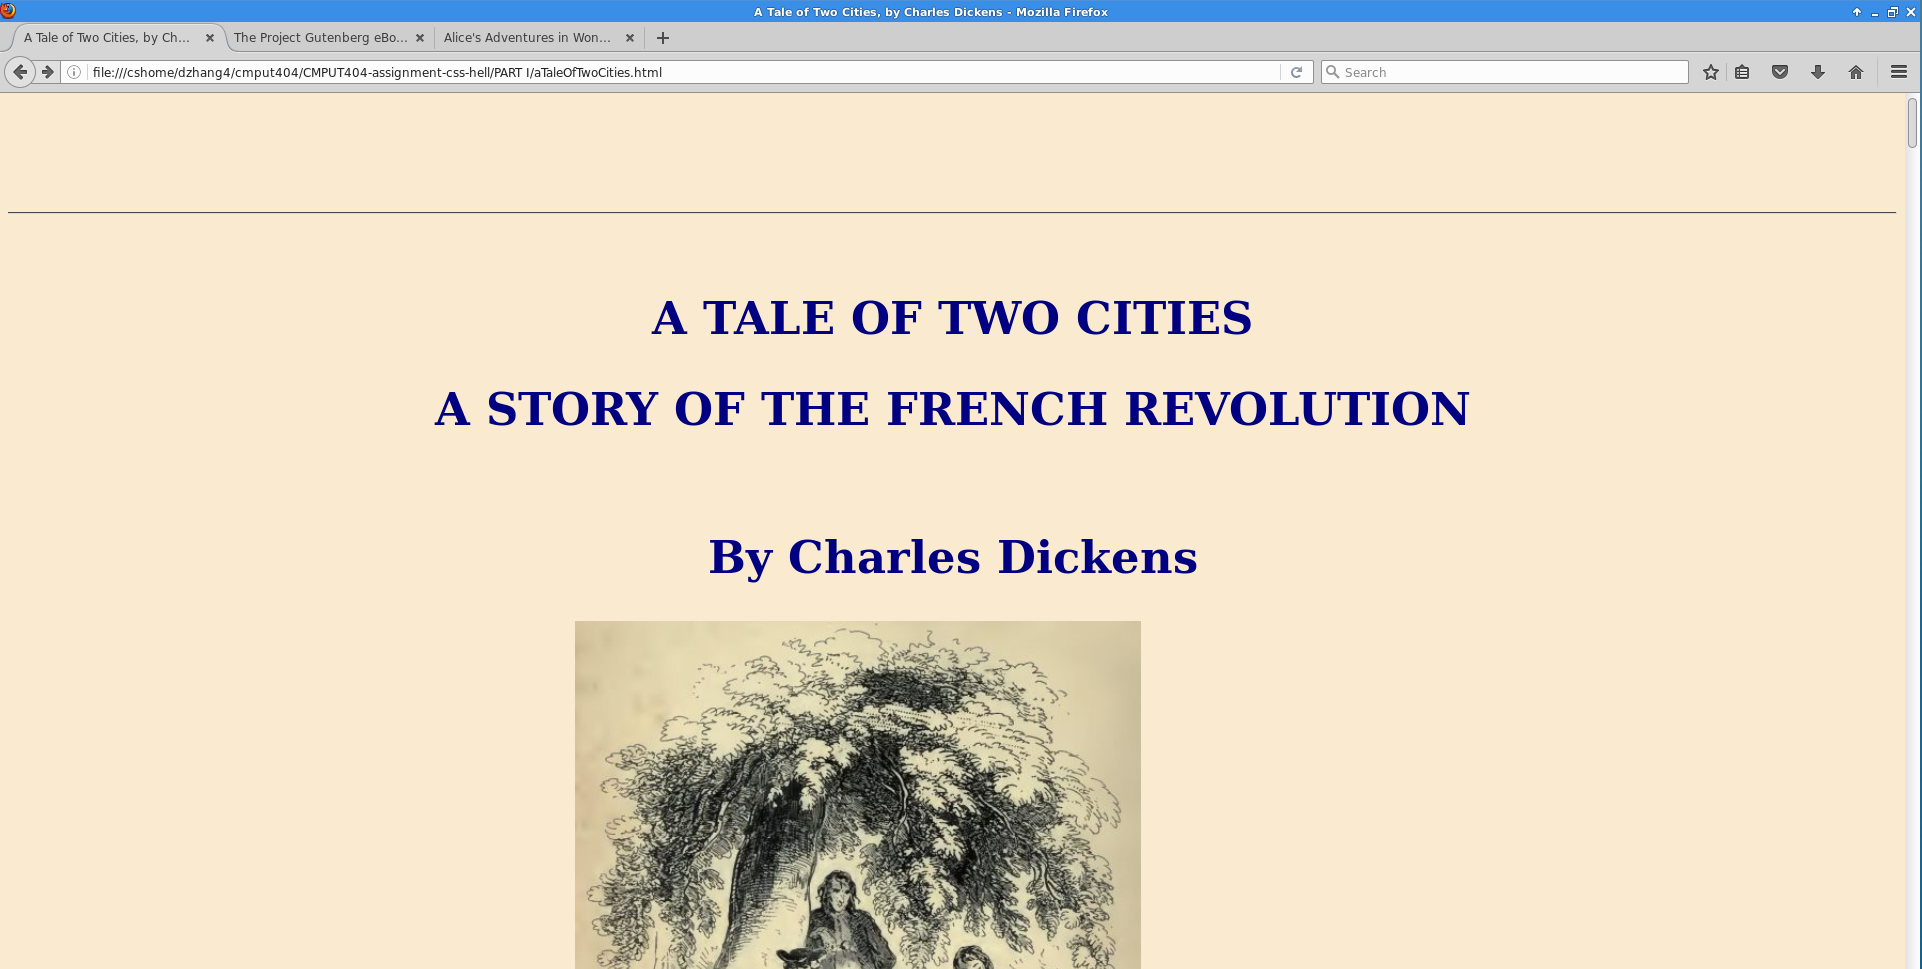
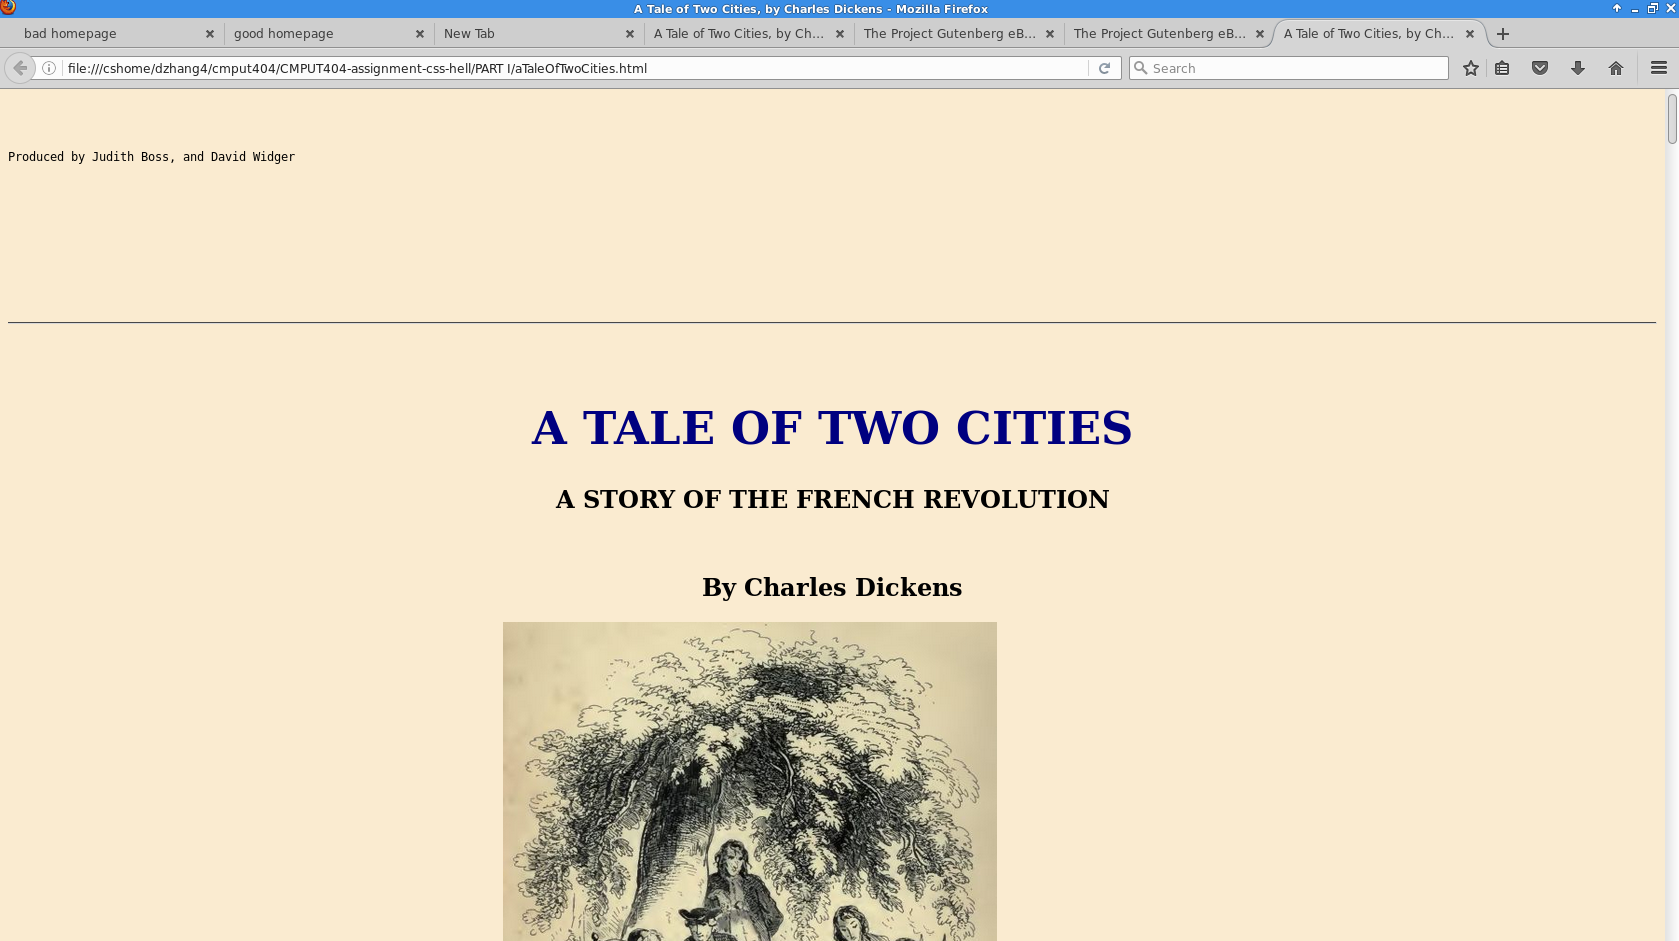
comm

diff --git a/PART II/bad.html b/PART II/bad.html
@@ -1,0 +1,57 @@
+<!DOCTYPE html>
+<html>
+<head>
+  <meta charset="UTF-8">
+  <link rel="stylesheet" type="text/css" href="bad.css"></link>
+  <title>bad homepage</title>
+</head>
+<body>
+
+  <div id="header">
+    <h1>
+      Di Zhang
+    </h1>
+  </div>
+  <ul class="menu">
+    <li class="tab"><a href="#bio">Who Am I?</a></li>
+    <li class="tab"><a href="#exp">Experience</a></li>
+    <li class="tab"><a href="#whyMe">Why Me?</a></li>
+  </ul>
+
+  <div id="sidebar">
+    <ul>Computer Science Major</ul>
+    <ul>Motivated</ul>
+    <ul>Hard Worker</ul>
+  </div>
+  <img src="IMG_0477.JPG" alt="myPhoto" height=20% width=20%>
+  
+  <div id="aboutMe">
+    <h2 id="bio">About Me</h2>
+    <p>Hello! I am a student at the University of Alberta studying Computer Science. </p>
+  </div>
+
+  <div id="exp">
+    <h2>Experience</h2>
+    <h5>Software Developer Intern</h5>
+    <h6>July - August 2016</h6>
+    <p>My position at VistaVu Solutions was to integrate SAP FieldVu Mobile with Intuit Quickbooks.</p>
+  </div>
+
+  <div id="whyMe">
+    <h2>Technical Skills</h2>
+    <ul>
+      <li>Python</li>
+      <li>Java</li>
+      <li>C/C++</li>
+      <li>SQL and Databases</li>
+      <li>HTML/CSS/JavaScript</li>
+    </ul>
+  </div>
+
+  <div id="contact">
+    <p>Please contact: dzhang4@ualberta.ca</p>
+  </div>
+
+  
+</body>
+</html>

diff --git a/PART II/good.html b/PART II/good.html
@@ -1,0 +1,56 @@
+<!DOCTYPE html>
+<html>
+<head>
+  <meta charset="UTF-8">
+  <link rel="stylesheet" type="text/css" href="good.css"></link>
+  <title>good homepage</title>
+</head>
+<body>
+
+  <div id="header">
+    <h1>
+      Di Zhang
+    </h1>
+  </div>
+  <ul class="menu">
+    <li class="tab"><a href="#bio">Who Am I?</a></li>
+    <li class="tab"><a href="#exp">Experience</a></li>
+    <li class="tab"><a href="#whyMe">Why Me?</a></li>
+  </ul>
+
+  <div id="sidebar">
+    <ul>Computer Science Major</ul>
+    <ul>Motivated</ul>
+    <ul>Hard Worker</ul>
+  </div>
+  <img src="IMG_0477.JPG" alt="myPhoto" height=20% width=20%>
+  
+  <div id="aboutMe">
+    <h2 id="bio">About Me</h2>
+    <p>Hello! I am a student at the University of Alberta studying Computer Science. </p>
+  </div>
+
+  <div id="exp">
+    <h2>Experience</h2>
+    <h5>Software Developer Intern</h5>
+    <h6>July - August 2016</h6>
+    <p>My position at VistaVu Solutions was to integrate SAP FieldVu Mobile with Intuit Quickbooks.</p>
+  </div>
+
+  <div id="whyMe">
+    <h2>Technical Skills</h2>
+    <ul>
+      <li>Python</li>
+      <li>Java</li>
+      <li>C/C++</li>
+      <li>SQL and Databases</li>
+      <li>HTML/CSS/JavaScript</li>
+    </ul>
+  </div>
+
+  <div id="contact">
+    <p>Please contact: dzhang4@ualberta.ca</p>
+  </div>
+
+</body>
+</html>

diff --git a/PART II/good.css b/PART II/good.css
@@ -1,0 +1,69 @@
+body{
+  background-color:#ffffe0;
+}
+
+#header{
+  font-size:200%;
+  text-align:center;
+  color:white;
+  background:url(goodHeader.jpg);
+  padding-top:32px;
+  padding-bottom:32px;
+}
+
+h5{
+  margin:0;
+  padding:0;
+}
+
+h6{
+  margin:0;
+  padding:0;
+}
+
+img {
+  float:left;
+  padding-left:1em;
+  padding-top:1em;
+}
+
+ul.menu{
+  text-align:center;
+  padding-right:5em;
+}
+
+li.tab{
+  display:inline;
+  padding-left:5em;
+}
+
+#aboutMe,#exp,#whyMe {
+  position:relative;
+  padding:15px;
+  margin-top:2em;
+  margin-left:25em;
+  margin-right:30em;
+  font-family: "Times New Roman", Times, serif;
+  border-color:#5F9EA0;
+  border-style:solid;
+  border-radius:20px;
+}
+
+#sidebar {
+  float:right;
+  padding-right:10em;
+  padding-top:1em;
+  border-style:solid;
+  border-radius:5px;;
+  border-color:#B0C4DE;
+  background-color:#B0C4DE;
+}
+
+#contact{
+  text-align:center;
+  background:url(goodFooter.jpg);
+  padding-top:3em;
+  padding-bottom:3em;
+}
+
+

diff --git a/PART II/bad.css b/PART II/bad.css
@@ -1,0 +1,65 @@
+body{
+  background:aquamarine;
+}
+
+#header{
+  font-size:200%;
+  text-align:center;
+  color:blue;
+  background:url(bad-header.png);
+  padding-top:32px;
+  padding-bottom:32px;
+}
+
+h5{
+  margin:0;
+  padding:0;
+}
+
+h6{
+  margin:0;
+  padding:0;
+}
+
+img {
+  float:left;
+  padding-left:1em;
+  padding-top:1em;
+}
+
+ul.menu{
+  text-align:center;
+  padding-right:5em;
+}
+
+li.tab{
+  display:inline;
+  padding-left:5em;
+}
+
+#aboutMe,#exp,#whyMe {
+  position:relative;
+  padding:15px;
+  margin-top:2em;
+  margin-left:25em;
+  margin-right:30em;
+  background-color:#7CFC00;
+  font-family:"Comic Sans MS", cursive, sans-serif;
+  color:red;
+}
+
+#sidebar {
+  float:right;
+  padding-right:10em;
+  padding-top:2em;
+  background-color:yellow;
+}
+
+#contact{
+  text-align:center;
+  background:url(badFooter.jpg);
+  padding-top:3em;
+  padding-bottom:3em;
+}
+
+

diff --git a/PART I/old.css b/PART I/old.css
@@ -3,12 +3,17 @@ body {
     background-color: #faebd0;
 }
 
-h1,h2 {
+h1{
    font-size: 280%; 
    text-align: center;
    color:navy;
 }
 
+h2,h3{
+   font-size:150%;
+   text-align:center;
+   color:black;
+}
 h5 {
    border-style:solid;
    border-width:2px;
